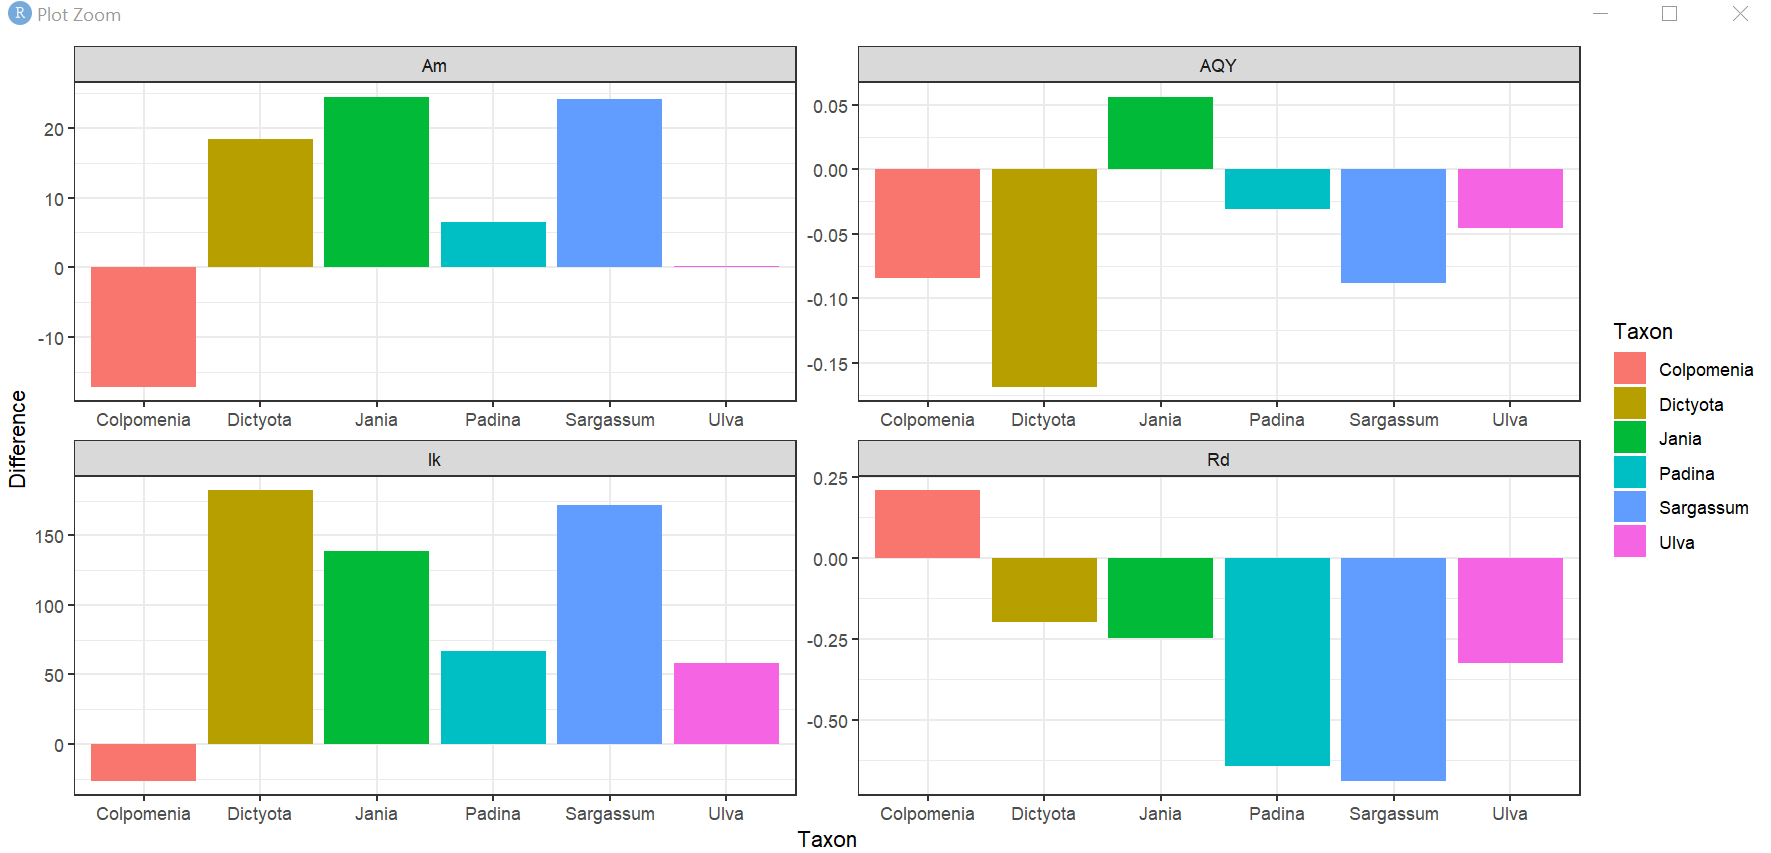
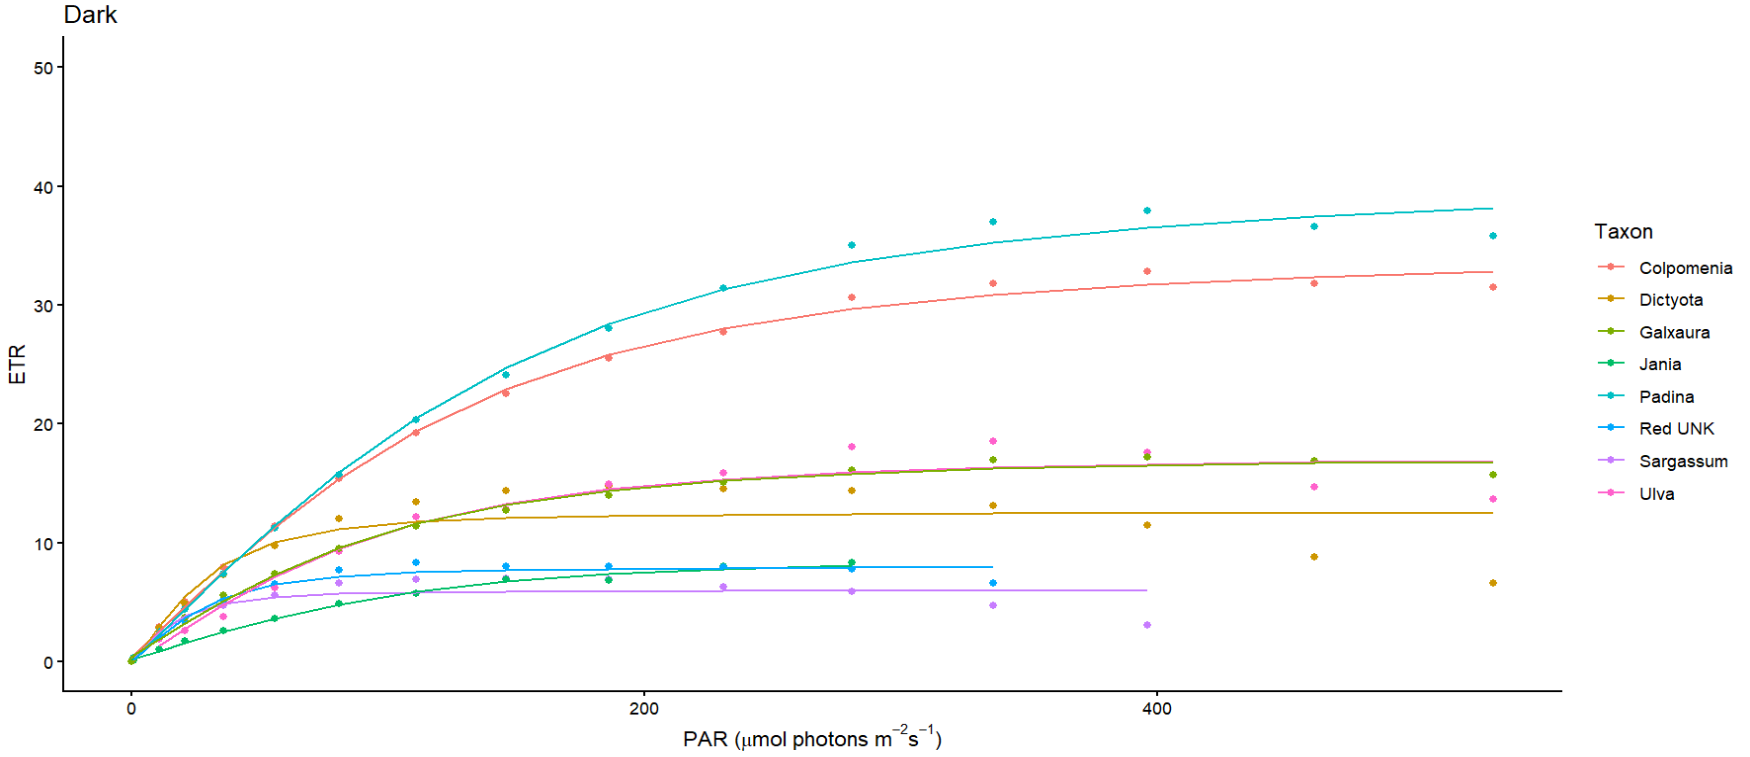
D

diff --git a/_posts/Marine_Photophysiology_R_Analysis.md b/_posts/Marine_Photophysiology_R_Analysis.md
@@ -88,12 +88,11 @@ Raw measurements were organized into CSV format and analyzed using the **R stati
 ## 4. Results
 
 ### 4.1. Species Composition
->**[![alt text](image-7.png)]**
+>**[![alt text](image-6.png)]**
 >*Figure 6: Relative distribution of macroalgal taxa collected along the South-to-North transect. The pie chart illustrates the proportional representation of each species within the total sampled population.*
 
 
 >*Table 2: Summary of identified macroalgal species and the number of specimens analyzed.*
-Representative data from the analyzed specimens is presented in Table 3
 | Macroalgal Taxon | Taxonomic Group | Number of Specimens Analyzed |
 | :--- | :--- | :---: |
 | *Ulva* sp. | Chlorophyta | 3 |
@@ -107,6 +106,7 @@ Representative data from the analyzed specimens is presented in Table 3
 | *Hypnea* sp. | Rhodophyta | 3 |
 | *Sargassum* sp. | Phaeophyceae | 2 |
 | **Total** | | **28** |
+Representative data from the analyzed specimens is presented in Table 3
 
 ### 4.2. Photophysiological Parameters
 
@@ -121,11 +121,19 @@ Representative data from the analyzed specimens is presented in Table 3
 | S5 | *Laurencia papillosa* | 0.69 | 0.19 | 155 | 815 |
 
 ### 4.3. Photosynthesis–Irradiance Relationships
->**[![alt text](image-8.png) ]**
+>**[![alt text](image-7.png) ]**
 >*Figure 8: Comparison of ETRmax values among macroalgal taxa.*
+
+### 4.4 Parameter Intercorrelation Matrix
+This analysis examines the strength and direction of the relationships between the different photophysiological parameters (Fv/Fm, α, ETRmax, Ik). 
+Understanding these correlations is essential for interpreting how different species balance their photosynthetic capacity with light-harvesting efficiency.
+
+(![alt text](image-8.png))
+*Figure 8: Heatmap correlation matrix showing the interdependencies between photosynthetic variables. High positive correlations are highlighted, revealing fundamental physiological tradeoffs among the sampled taxa.*
 
 
 ---
+
 
 ## 5. Discussion
 The results demonstrate significant variability in photophysiological performance among the analyzed taxa, reflecting their distinct ecological niches. 